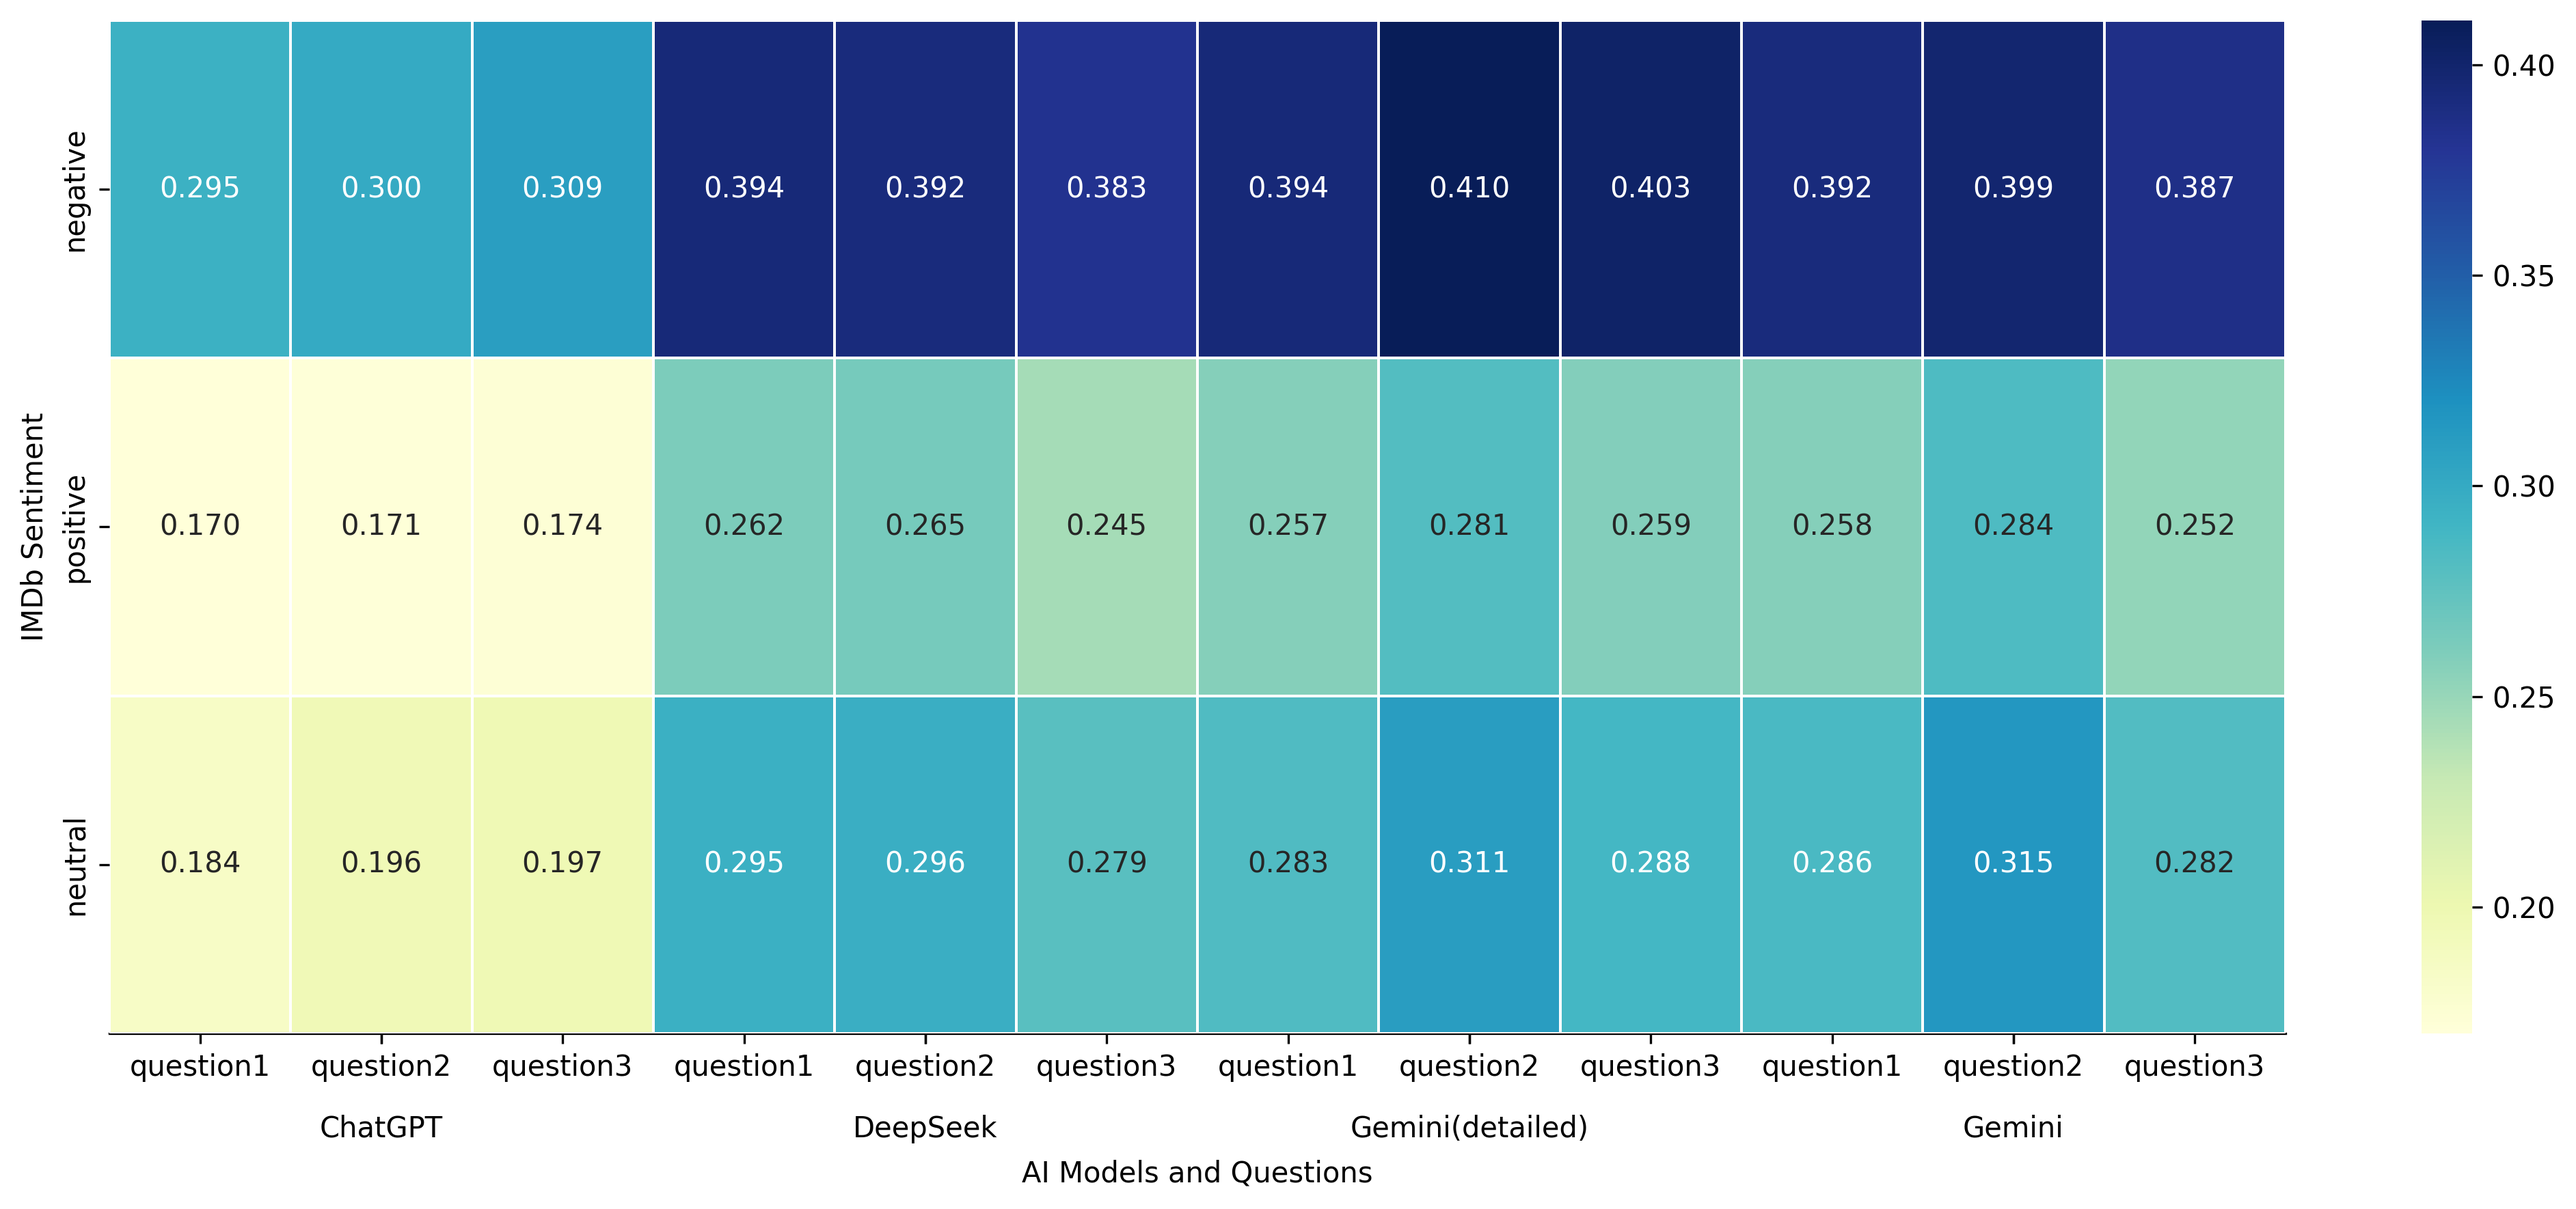
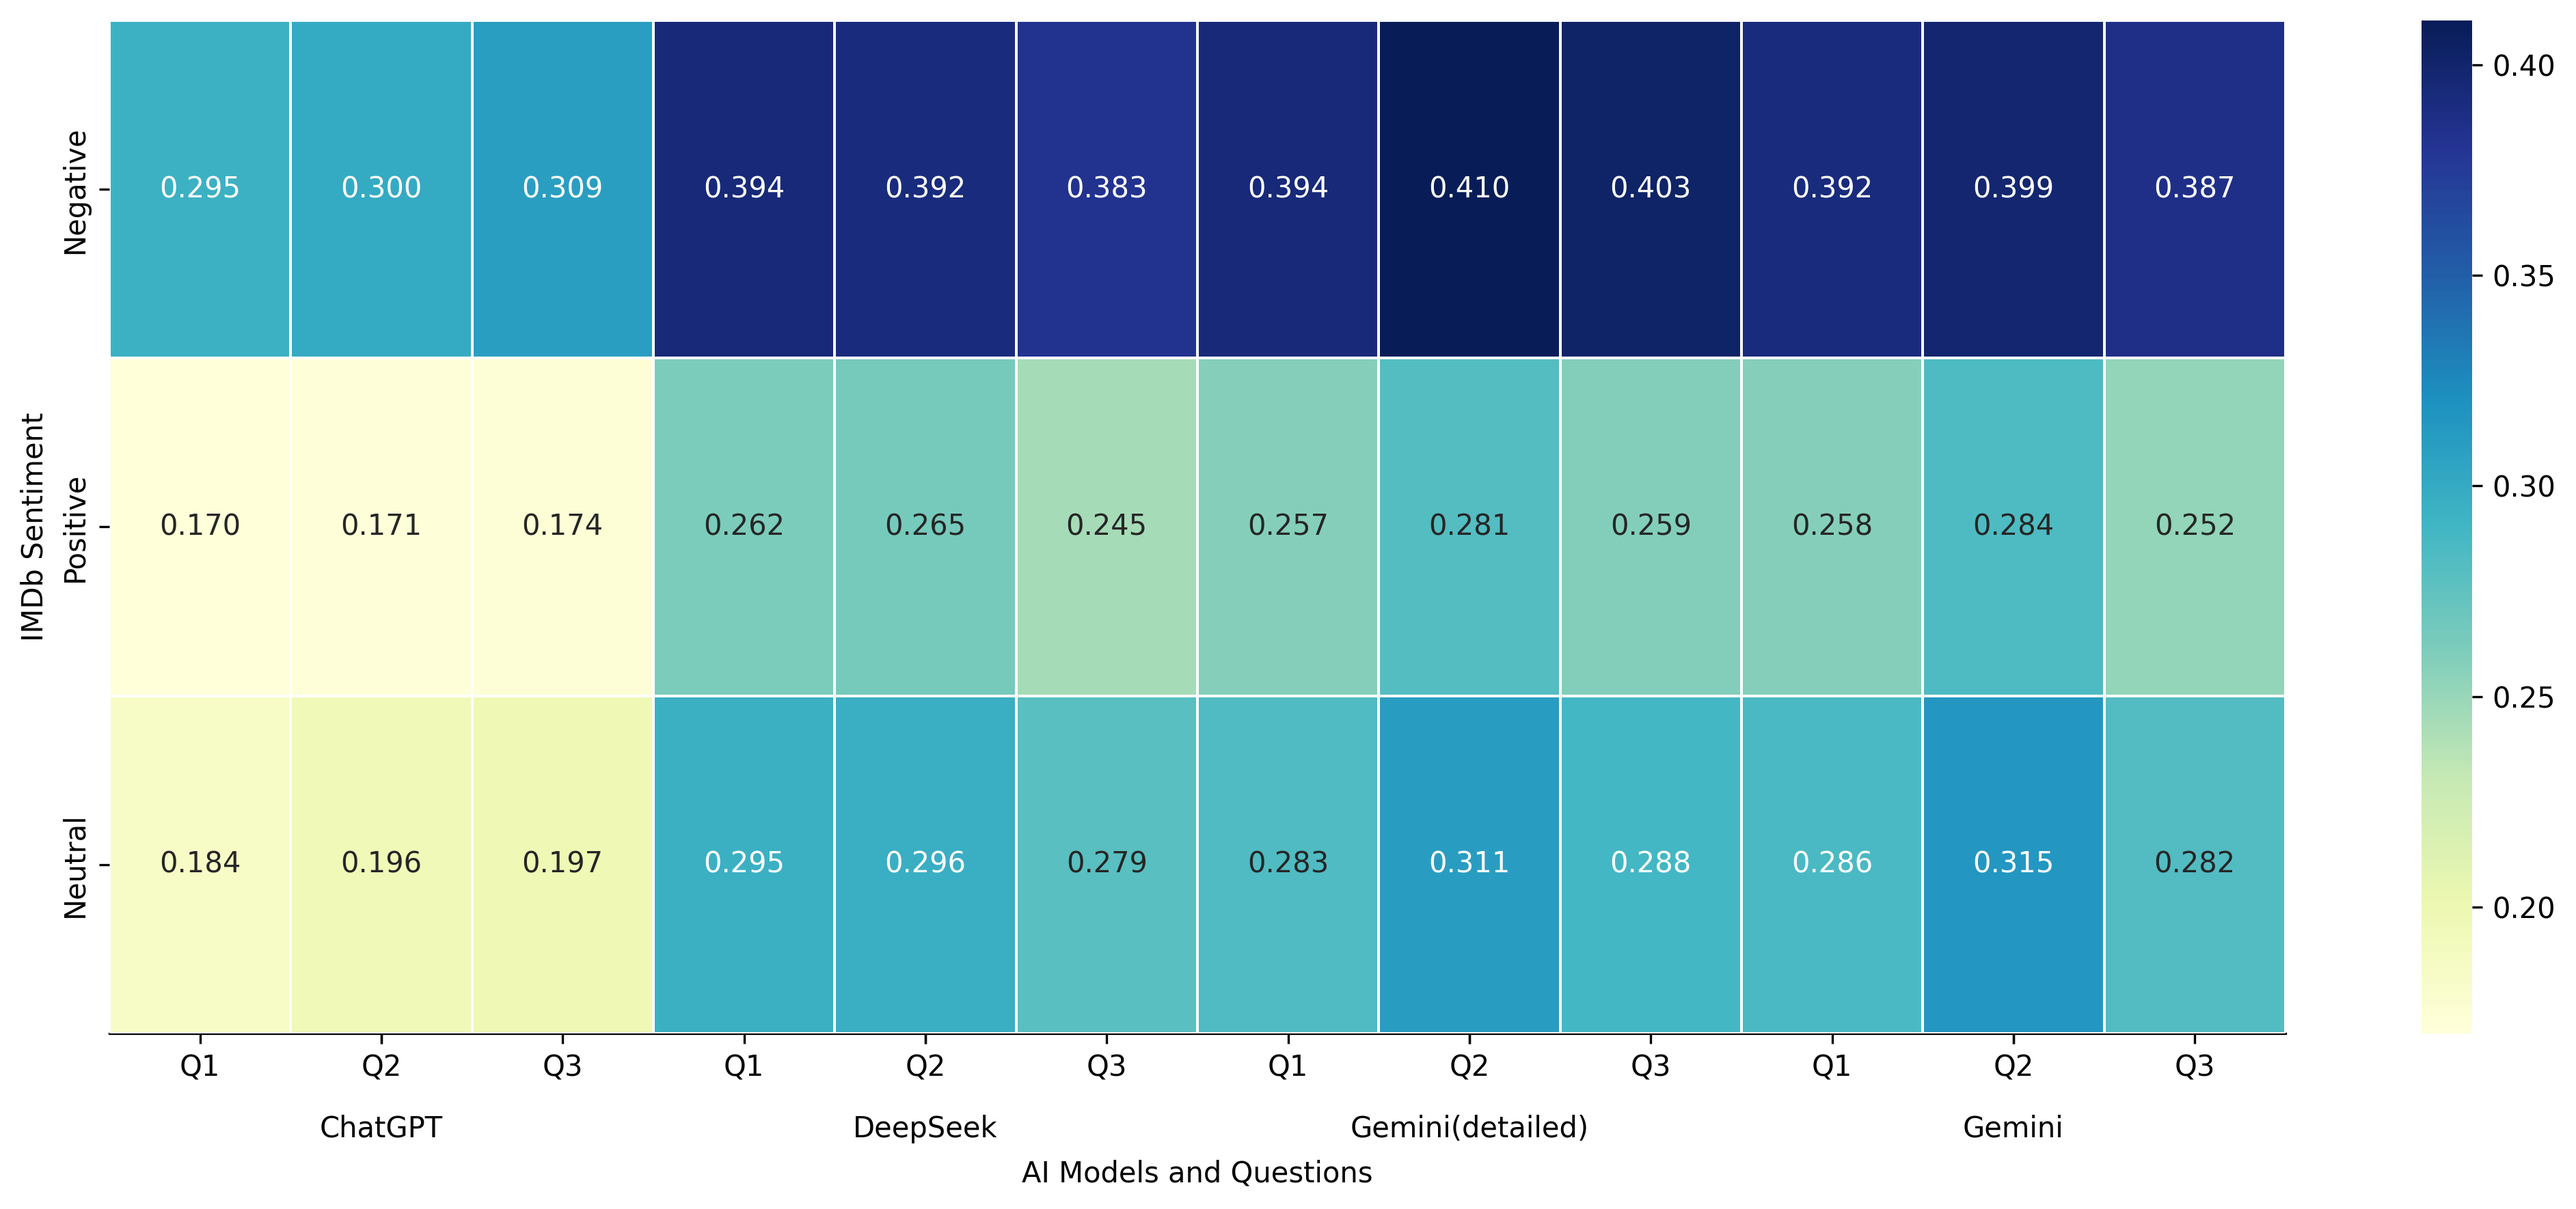
Capitalise labels

diff --git a/visualization/cosine_similarity_by_question.py b/visualization/cosine_similarity_by_question.py
@@ -118,7 +118,9 @@ def plot_similarity_heatmap(df_result, title, filename):
     # Pivot for heatmap
     heatmap_df = df_result.pivot(index="sentiment", columns="source_question", values="mean_cosine_similarity")
     # Reorder the index (rows)
+    # heatmap_df.index = heatmap_df.index.str.capitalize()
     heatmap_df = heatmap_df.reindex(["negative", "positive", "neutral"])
+    heatmap_df.index = heatmap_df.index.str.capitalize()
 
     # Plot heatmap
     # Corrected version using set_xticklabels for the secondary axis
@@ -126,7 +128,7 @@ def plot_similarity_heatmap(df_result, title, filename):
     sns.heatmap(heatmap_df, annot=True, cmap="YlGnBu", fmt=".3f", linewidths=0.5)
 
     # primary x-axis: question labels
-    question_labels = ["question1", "question2", "question3"] * 4
+    question_labels = ['Q1', 'Q2', 'Q3'] * 4
     plt.xticks(ticks=[i + 0.5 for i in range(len(question_labels))], labels=question_labels, rotation=0)
 
     # Add a secondary x-axis below for model labels
